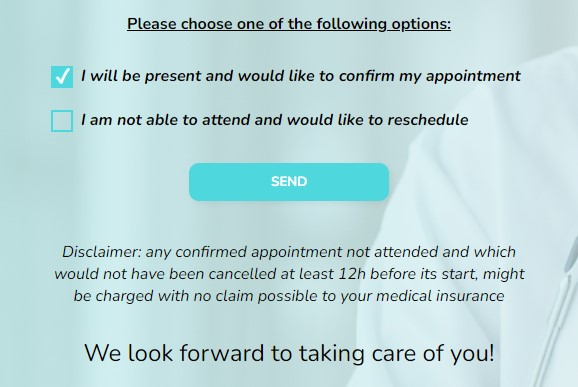
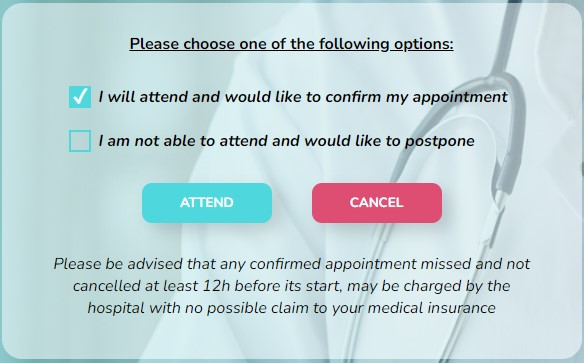
Updated the README.md file

diff --git a/main.js b/main.js
@@ -1,4 +1,5 @@
-import { Appointment } from './modules/appointment.js';
+import { Appointment } from './modules/appointment-class.js';
+import { DateFunctions } from './modules/date-functions.js';
 //const Appointment = require('./modules/appointment.js');
 
 
@@ -44,7 +45,7 @@ function generateNewRandomAppointment() {
   const appointmentAddress = document.getElementById("appointment-address");
 
   
-  appointmentTime.innerText = `${appointment.day}${appointment.dayCardinal} ${appointment.month} ${appointment.year} at ${appointment.hour}.${appointment.minute}`;
+  appointmentTime.innerText = `${appointment.day}${appointment.dayCardinal} ${appointment.month} ${appointment.year} at ${appointment.hour}.${DateFunctions.formatMinutes(appointment.minute)}`;
   appointmentAct.innerText = `${appointment.act}`;
   appointmentProfessional.innerText = `Dr ${appointment.professional}`;
   appointmentDepartment.innerText = `Department of ${appointment.department}`;
@@ -60,7 +61,7 @@ function generateFutureAppointment() {
 
   const appointmentTime = document.getElementById("appointment-time");
 
-  appointmentTime.innerText = `on the ${appointment.day}${appointment.dayCardinal} ${appointment.month} ${appointment.year} at ${appointment.hour}.${appointment.minute}`;
+  appointmentTime.innerText = `${appointment.day}${appointment.dayCardinal} ${appointment.month} ${appointment.year} at ${appointment.hour}.${DateFunctions.formatMinutes(appointment.minute)}`;
 
   stateInitial();
 }

diff --git a/modules/date-functions.js b/modules/date-functions.js
@@ -102,6 +102,11 @@ class DateFunctions {
     return !(isFirst(day) || isSecond(day) || isThird(day));
   }
 
+  static formatMinutes(minutes) {
+    const stringMinutes = minutes.toString( DateFunctions.TEN );
+    return (stringMinutes.length === 2) ? stringMinutes : stringMinutes.padStart(2, '0');
+  }
+
   static millisecondsWithin(span) {
     // Converts a span in a Date format YYYY-MM-DDTHH:MM:SS.MMMZ into into milliseconds
     return span.valueOf();

diff --git a/README.md b/README.md
@@ -2,36 +2,48 @@
 
 <img src=".//resources/images/screenshot.jpg" width="1000px">
 
+---
+
 ## Description :mag_right:
+
 The project models the page of a simplified hospital :hospital: online system on which the patient can find details about his or her next medical appointment and confirm the appointment.
 
 A message including all necessary details for the patient not to miss the appointment :ambulance: with the medical professional :mask: is displayed.
 
 The project constructs a fictional :sparkles: message :envelope: randomly generated according to the requirements of the [**Mixed Message**](https://www.codecademy.com/paths/back-end-engineer-career-path/tracks/becp-22-portfolio-project-mixed-messages/modules/becp-22-mixed-messages/kanban_projects/mixed-messages) project from [**Codecademy**](https://www.codecademy.com/).
 
+<img src=".//resources/images/logo-codecademy.png" width="1000px">
+
+---
+
 ## Features :star::star::star:
+
 The project features the following main elements:
 1. An straight-forward title and an evocative illustration
 3. A sober style respecting the theme
 4. A couple of patient actions described in the [instructions](#instructions)
 
 ### Dynamic behaviors :dizzy: 
-Taking into account, the features implemented in the project a particular attention was paid to allowing some level of **_dynamism_** to the behaviors of each of the elements in order to practice with some **_event management_** aspects of the project.
+
+Taking into account, the features implemented in the project a special attention was paid to allowing some level of **_dynamism_** to the behaviors of each of the elements in order to practice with some **_event management_** aspects of the project.
 
 ### Object and data :package:
+
 Additionally **_objects_** described by their respective **_classes_**, and **_data_** were included in separate **_modules_** and then integrated together.
 
 ### Code redaction :pen:
 
-A high quality of code redaction was sought during refactoring using for example guard clauses.
+A reasonable quality of code redaction was sought during refactoring using for example guard clauses. Additional care was taken in the JavaScript as practice in this language was the main exercise while improved refactoring of the HTML, CSS and Markdown code was left as a possible future improvement.
 
 ### Project documentation :notebook:
 
 Eventually, a significant amount of time was spent in properly **_documenting_** the project.
 
-### Error handling :x:
+### Error handling and test management :x:
 
-Although partially included, **_error handling_** was not the primary focus of the project and was left as a possible future improvement.
+Although error handling was introduced in the course, **_error handling_** was not deemed necessary due to the reduced level of interaction. Test management was also limited to the required minimum during the actual development. As both areas were not the primary focus of the project they were left as possible future improvements.
+
+---
 
 ## Instructions :mega::mega::mega:
 
@@ -41,54 +53,116 @@ Although partially included, **_error handling_** was not the primary focus of t
 
 When landing on the page the patient can immediately read every appointment detail:
 
-1. Time and location
-
-   1. Date and time
-   2. Location within the building
-   3. Address of the building
+1. Date and time
 
 2. Type of medical act
 
-3. Medical professional
-   1. Full name of the medical professional
-   2. Medical department employing the medical professional
+3. Name of the medical professional
+
+4. Name of medical department
+
+5. Floor of the house
+
+6. Address
 
 A text reminds the patient to bring the full relevant medical record to the appointment.
+
+### Appointment options
+
+<img src=".//resources/images/appointment-options.jpg" width="500px">
+
+The patient is then invited to make a choice:
+
+1. With the first checkbox the patient can confirm the appointment
+
+2. With the second checkbox the patient can request the appointment to be rescheduled
+
+Each choice will trigger a set of two buttons
 
 ### Appointment confirmation
 
 <img src=".//resources/images/appointment-confirmation.jpg" width="500px">
 
-The patient is then invited to make a choice:
+The patient can then either decide to ATTEND the appointment or CANCEL the choice previously made.
 
-+ With the first checkbox the patient can confirm the appointment which is the default option
-+ With the second checkbox the patient can request the appointment to be rescheduled
+The patient is also reminded that confirmed appointment missed might be charged directly by the hospital.
 
-The choice can be submitted with the SEND button.
+When cancelling the user returns to the two initial options.
 
-A confirmation is then displayed after either action.
+<img src=".//resources/images/appointment-options.jpg" width="500px">
+
+When clicking on ATTEND a message is displayed and the user is invited to generate a new appointment.
+
+<img src=".//resources/images/appointment-generation.jpg" width="500px">
+
+### Appointment postponing
+
+<img src=".//resources/images/appointment-postponing.jpg" width="500px">
+
+The patient can otherwise decide to POSTPONE the appointment or CANCEL the choice previously made.
+
+<img src=".//resources/images/appointment-options.jpg" width="500px">
+
+When cancelling the user returns to the two initial options.
+
+<img src=".//resources/images/appointment-postponed.jpg" width="500px">
+
+When clicking on POSTPONE a new date and time later than the previously given appointment date and time is suggested and the user is provided with the two initial options.
+
+---
 
 ## Technologies :computer:
 
 ### Front-End
-<img src=".//resources/images/HTML-CSS-JS.png" height="100px">
 
+<img src=".//resources/images/HTML-CSS-JS.png" height="100px">
 
 The page structure is coded in [**HTML5**](https://developer.mozilla.org/en-US/docs/Web/HTML) while the style is coded with [**CSS3**](https://developer.mozilla.org/en-US/docs/Web/CSS). The dynamic behaviors is coded in [**JavaScript**](https://developer.mozilla.org/en-US/docs/Web/JavaScript).
 
+> A state machine was the design of choice reflecting user interaction.
+
 ### Back-end
+
 <img src=".//resources/images/JS.png" height="100px">
 
 Object modeling and data storage were also written in [**JavaScript**](https://developer.mozilla.org/en-US/docs/Web/JavaScript) in order to exercise in the language.
 
+> An `Appointment` class is the key item of the data model. Note that since only a single appointment was created in the project an appointment object would be sufficient.
+
 ### Read Me
+
 <img src=".//resources/images/MD.png" height="60px">
 
 The present README.md file was composed with [**Markdown**](https://developer.mozilla.org/en-US/docs/MDN/Contribute/Markdown_in_MDN) with the purpose to be shown on the [**README.md**](https://github.com/michaellaurac/mixed-messages#readme)  page of the project as seen on [**GitHub**](https://github.com/).
 
+---
+
+## Future improvements :rocket:
+
+The following future improvement might be considered:
+
+- A **_database_** reflecting the adequate data structure so that a random medical act is performed by the right professional coming from the right department at a specific location from a particular hospital
+- A **_RESTful API_** to adjust the database based on availabilities
+- An **_API using JSON_** to export the appointment details when it is confirmed 
+- Some **_printing_** capabilities in a predetermined format
+- A **_calendar_** to display the appointment and to select next possible availabilities
+- A **_map_** to display the physical location of the appointment
+- Some level of **_error handling_**
+- Some **_test environment_** to verify that all functions coordinate as expected before launch
+
+---
+
 ## Contributors :woman::man:
 
 The author of the project is [*Michaël L.*](https://github.com/michaellaurac).
+
+---
+
+## Hours of development :watch:
+
+About 40 hours were spent on this project.
+
+---
 
 ## License :briefcase:
 
